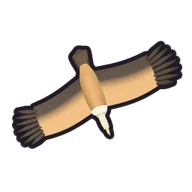
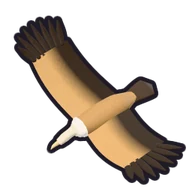
Revisión: vecinos con pelo distinto, iconos de aves legibles
- Vecinos (personajes de Meshy): el pelo se tiñe en el material con el color de cada vecino (rubio, castaño,
  pelirrojo, negro, canoso en los mayores); antes todos salían con el mismo castaño de la textura. La boina, los ojos
  y el pañuelo no cambian
- Vecinos KayKit (trajes de comarca): también reciben pelo y piel del look
- Iconos 3D de aves (buitre, águila, alimoche, milano, grulla, cigüeña, garza, sisón): planeando en tres cuartos con
  las alas en V; en las fichas de fauna se veían como un palo marrón
- Capturas en entrega/revision-vecinos-aves.png

Claude-Session: https://claude.ai/code/session_01LP3syHb7415C8M5w3wgHaS

diff --git a/src/actors/npcGlb.js b/src/actors/npcGlb.js
@@ -2,6 +2,7 @@
 // su esqueleto y sus animaciones, con la ropa, la piel y el pelo de cada vecino. Las texturas se recolorean una vez
 // por combinación de colores y se comparten; la geometría es la del modelo (un solo juego para todo el pueblo).
 import * as THREE from 'three';
+import { fillMaterial } from '../engine/charLight.js';
 import { GlbChar, loadKayKit, loadMeshy, hasMeshy, MESHY_GAIT, MESHY_NAMES } from './glbChar.js';
 import * as SkeletonUtils from 'three/examples/jsm/utils/SkeletonUtils.js';
 import { mergeGeometries } from 'three/examples/jsm/utils/BufferGeometryUtils.js';
@@ -56,6 +57,7 @@ const MESHY_NPC = {};
 function buildNpcMeshy(L) {
   const name = meshyFor(L), g = MESHY_LOD_NPC[name] || MESHY_NPC[name];
   const char = new GlbChar(g, MESHY_GAIT);   // zancada real (sin patinar)
+  hairTint(char.root, L);
   // su altura: niños más bajos, el resto con un poco de variedad (todos con la misma figura nueva)
   const H = L.height || (L.child ? 1.22 : 1.5 + (hashOf(L) % 7) * 0.02), k = H / 1.6;
   char.root.scale.setScalar((g.userData.fit || 1) * k);
@@ -71,6 +73,44 @@ function buildNpcMeshy(L) {
     },
   };
   return { obj, char, anim };
+}
+// Pelo de cada vecino: los personajes de Meshy llevan el pelo pintado en su textura (castaño oscuro en todos), así que
+// se tiñe en el material con el color del «look» (rubio, castaño claro, pelirrojo, canoso…). El pelo se reconoce por su
+// color en la textura (castaño muy oscuro y rojizo: mucho más rojo que verde y casi sin azul) y solo en la cabeza
+// (atributo por vértice calculado una vez por modelo): la boina negra, los ojos y el pañuelo rojo no cambian
+const HAIR_K = (geo) => {
+  if (geo.attributes.aHead) return;
+  const P = geo.attributes.position, n = P.count, a = new Float32Array(n); let top = -1e9;
+  for (let i = 0; i < n; i++) top = Math.max(top, P.getY(i));
+  for (let i = 0; i < n; i++) a[i] = THREE.MathUtils.smoothstep(P.getY(i), top - 0.6, top - 0.5);   // (el modelo mide 2 unidades)
+  geo.setAttribute('aHead', new THREE.BufferAttribute(a, 1));
+};
+function hairTint(root, L) {
+  const hair = L.hair || (L.old ? '#d6d0c6' : null); if (!hair) return;
+  const col = new THREE.Color(hair);
+  root.traverse(o => {
+    if (!o.isSkinnedMesh || !o.material?.map) return;
+    HAIR_K(o.geometry);
+    const m = o.material.clone(); if (o.material.userData.fillK != null) fillMaterial(m, o.material.userData.fillK);
+    m.onBeforeCompile = (sh) => {
+      sh.uniforms.uHair = { value: col };
+      sh.vertexShader = sh.vertexShader.replace('#include <common>', '#include <common>\nattribute float aHead; varying float vHead;')
+        .replace('#include <begin_vertex>', '#include <begin_vertex>\nvHead = aHead;');
+      sh.fragmentShader = sh.fragmentShader.replace('#include <common>', '#include <common>\nuniform vec3 uHair; varying float vHead;')
+        .replace('#include <map_fragment>', `#include <map_fragment>
+{
+  vec3 c = diffuseColor.rgb; float l = dot(c, vec3(0.3, 0.59, 0.11));
+  // pelo: oscuro, con más rojo que verde y poco azul (la boina negra y los ojos son grises o negros puros: no se
+  // tiñen; el pañuelo rojo es mucho más claro). Se mira el texel tal cual: las islas del pelo en el atlas son
+  // pequeñas y desenfocar mezcla con la piel de al lado
+  float h = vHead * smoothstep(1.3, 1.8, c.r / max(c.g, 0.002)) * (1.0 - smoothstep(0.4, 0.55, c.b / max(c.r, 0.002))) * (1.0 - smoothstep(0.09, 0.14, l));
+  diffuseColor.rgb = mix(c, uHair * clamp(l / 0.009, 0.35, 1.5), h);
+}`)
+        .replace('#include <emissivemap_fragment>', '#include <emissivemap_fragment>\ntotalEmissiveRadiance = emissive * diffuseColor.rgb;');
+    };
+    m.customProgramCacheKey = () => 'meshy-hair';
+    o.material = m;
+  });
 }
 // Vecino con traje (carnaval, dantzaris, seres de leyenda) con el cuerpo de los personajes nuevos: el de Meshy que mejor
 // le va (de blanco, el sanferminero; los seres del monte, el pastor), a su altura (los gigantes, gigantes) y con las
@@ -124,8 +164,11 @@ function kkTemplate(base, outfit) {
 }
 // traje del vecino a partir de su «look» (o el de su comarca si lo pide)
 function lookOutfit(L, female) {
-  if (L.region) return regionalOutfit(L.region, female, () => ((L.seed = ((L.seed || 7) * 9301 + 49297) % 233280) / 233280));
+  // pelo y piel de cada vecino (antes todos salían con el pelo castaño del modelo), también con el traje de su comarca
+  const hair = L.hair || (L.old ? '#d6d0c6' : undefined);
+  if (L.region) { const R = regionalOutfit(L.region, female, () => ((L.seed = ((L.seed || 7) * 9301 + 49297) % 233280) / 233280)); R.hair = hair; if (L.skin) R.skin = L.skin; return R; }
   const O = { id: undefined, shirt: L.shirt || '#e8e0cc', pants: L.skirt && !female ? L.skirt : (L.pants || L.skirt || '#3b3a40'), shoes: L.shoes || (L.espadrille ? '#efe6d0' : '#4a2f1c'), accent: L.vest || L.sash || L.pants || '#3b3a40' };
+  O.hair = hair; if (L.skin) O.skin = L.skin;
   if (L.txapela) O.beret = L.txapela; if (L.scarf) O.scarf = L.scarf; if (L.sash) O.sash = L.sash;
   if (female && L.skirt) { O.skirt = L.skirt; if (L.apron) O.apron = L.apron; }
   if (!female && L.apron) O.sash = O.sash || L.apron;

diff --git a/src/ui/icon3d.js b/src/ui/icon3d.js
@@ -161,7 +161,13 @@ for (const [p, u] of Object.entries(import.meta.glob('../assets/icons3d/*.webp',
 
 function build(name) {
   if (UI3D[name]) return UI3D[name]();
-  if (BIRDS[name] || FLY[name]) { const b = bird(BIRDS[name] ? name : FLY[name]); b.rotation.set(0.9, 0.5, 0.15); b.userData.el = 0.5; return b; }
+  if (BIRDS[name] || FLY[name]) {
+    // ave planeando vista de tres cuartos, con las alas algo levantadas (en V): de arriba, en diagonal y con las alas
+    // planas, en la ficha se leía como un palo marrón
+    const b = bird(BIRDS[name] ? name : FLY[name]);
+    if (b.userData.wl) b.userData.wl.rotation.z = -0.42; if (b.userData.wr) b.userData.wr.rotation.z = 0.42;
+    b.rotation.set(0.55, -0.75, -0.1); b.userData.el = 0.35; return b;
+  }
   if (SMALL[name]) { const o = SMALL[name](); if (o.isMesh) { const g = new THREE.Group(); g.add(o); g.rotation.y = 1.2; return g; } o.rotation.y = 0.7; return o; }
   if (CUSTOM[name]) return CUSTOM[name]();
   if (ITEM[name]) {

diff --git a/src/actors/outfits.js b/src/actors/outfits.js
@@ -134,7 +134,7 @@ export function applyOutfit(root, kk, outfitId) {
   if (O.skin && headCells.has(SKIN_CELL)) assign.set(SKIN_CELL, O.skin);
   if (hairTint && headCells.has(HAIR_CELL) && !assign.has(HAIR_CELL)) assign.set(HAIR_CELL, hairTint);
   if (!O.keep) {
-    const tex = repaint(map, assign, kk + '|' + (O.id || [O.shirt, O.pants, O.shoes, O.accent].join()));
+    const tex = repaint(map, assign, kk + '|' + (O.id || [O.shirt, O.pants, O.shoes, O.accent].join()) + '|' + (O.hair || '') + (O.skin || ''));
     for (const m of [...head, ...body, ...arms, ...legs]) { m.material = m.material.clone(); m.material.map = tex; }
   }
   // prendas cosidas a los huesos, colocadas sobre la pose de reposo
